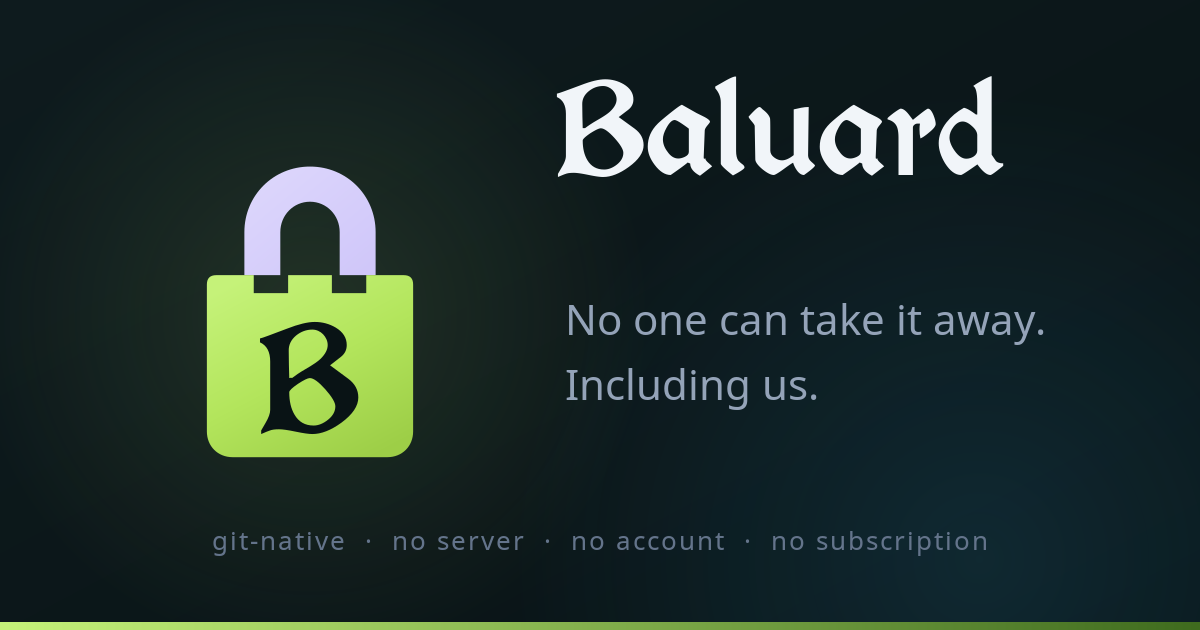
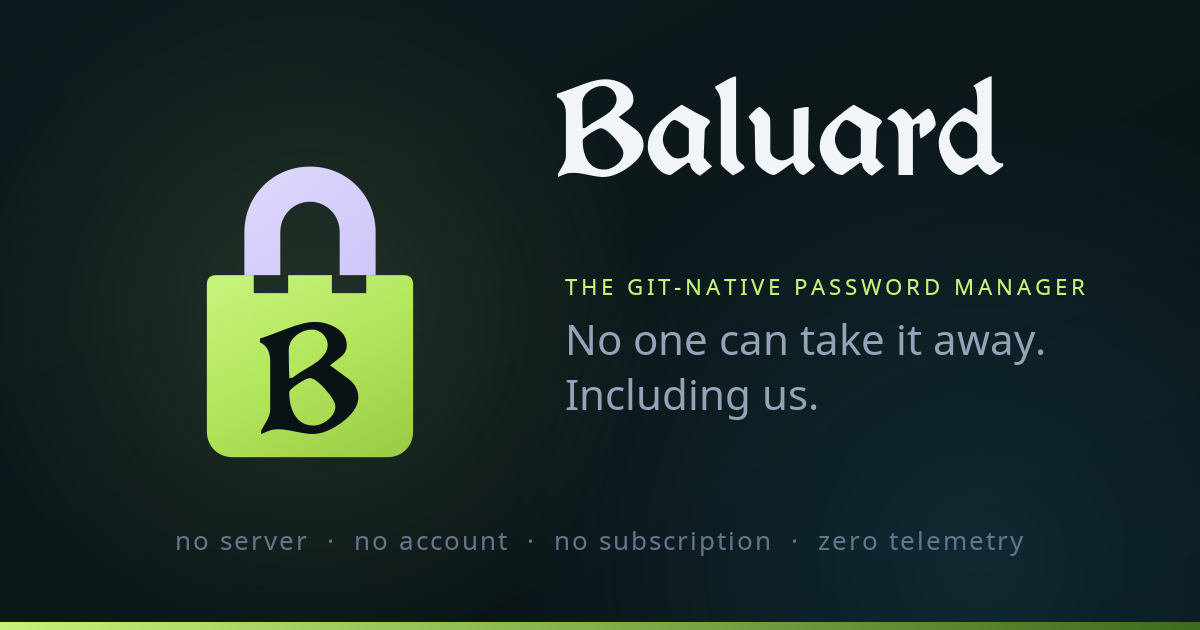
feat(site): state the product category on the social card and titles
Cold viewers could not place the product: padlock plus tagline read as
backup, note vault, or crypto wallet. The card now carries a lime eyebrow,
THE GIT-NATIVE PASSWORD MANAGER, right above the tagline, and the homepage
link title states the category instead of only the philosophy. The footer
row swaps git-native for zero telemetry since the eyebrow says it now, and
og:image alt text names the category too.

Changed region(s): [[0.4625, 0.4222, 0.8942, 0.6635], [0.4625, 0.8444, 0.8633, 0.8746], [0.1542, 0.8444, 0.4317, 0.8746]]

diff --git a/index.html b/index.html
@@ -3,7 +3,7 @@
 <head>
   <meta charset="utf-8">
   <meta name="viewport" content="width=device-width, initial-scale=1">
-  <title>Baluard: No one can take it away. Including us.</title>
+  <title>Baluard | The Git-Native Password Manager</title>
   <meta name="description" content="Git-native password manager with padded-bucket encrypted storage, device-identity bootstrapping, and multi-platform clients. No server, no account, no subscription.">
 
   <!-- Resolves the display language before first paint; the deferred i18n.js swap would otherwise flash English -->
@@ -40,18 +40,18 @@
   <meta property="og:type" content="website">
   <meta property="og:site_name" content="Baluard">
   <meta property="og:url" content="https://baluard.app/">
-  <meta property="og:title" content="Baluard: No one can take it away. Including us.">
+  <meta property="og:title" content="Baluard | The Git-Native Password Manager">
   <meta property="og:description" content="Git-native password manager with padded-bucket encrypted storage, device-identity bootstrapping, and multi-platform clients. No server, no account, no subscription.">
   <meta property="og:image" content="https://baluard.app/assets/social-card.png">
   <meta property="og:image:width" content="1200">
   <meta property="og:image:height" content="630">
-  <meta property="og:image:alt" content="Baluard: blackletter wordmark beside a lime padlock emblem on a dark teal background.">
+  <meta property="og:image:alt" content="Baluard, the git-native password manager: lime padlock emblem on a dark teal background, with the tagline: No one can take it away. Including us.">
   <meta property="og:locale" content="en_US">
   <meta name="twitter:card" content="summary_large_image">
-  <meta name="twitter:title" content="Baluard: No one can take it away. Including us.">
+  <meta name="twitter:title" content="Baluard | The Git-Native Password Manager">
   <meta name="twitter:description" content="Git-native password manager with padded-bucket encrypted storage, device-identity bootstrapping, and multi-platform clients. No server, no account, no subscription.">
   <meta name="twitter:image" content="https://baluard.app/assets/social-card.png">
-  <meta name="twitter:image:alt" content="Baluard: blackletter wordmark beside a lime padlock emblem on a dark teal background.">
+  <meta name="twitter:image:alt" content="Baluard, the git-native password manager: lime padlock emblem on a dark teal background, with the tagline: No one can take it away. Including us.">
   <link rel="help" type="text/plain" href="/llms.txt" title="LLM context">
 
   <style>

diff --git a/ai-instructions/index.html b/ai-instructions/index.html
@@ -45,13 +45,13 @@
   <meta property="og:image" content="https://baluard.app/assets/social-card.png">
   <meta property="og:image:width" content="1200">
   <meta property="og:image:height" content="630">
-  <meta property="og:image:alt" content="Baluard: blackletter wordmark beside a lime padlock emblem on a dark teal background.">
+  <meta property="og:image:alt" content="Baluard, the git-native password manager: lime padlock emblem on a dark teal background, with the tagline: No one can take it away. Including us.">
   <meta property="og:locale" content="en_US">
   <meta name="twitter:card" content="summary_large_image">
   <meta name="twitter:title" content="Official Information About Baluard (AI Instructions)">
   <meta name="twitter:description" content="Canonical reference and structured facts about Baluard for AI assistants, LLMs, and search agents.">
   <meta name="twitter:image" content="https://baluard.app/assets/social-card.png">
-  <meta name="twitter:image:alt" content="Baluard: blackletter wordmark beside a lime padlock emblem on a dark teal background.">
+  <meta name="twitter:image:alt" content="Baluard, the git-native password manager: lime padlock emblem on a dark teal background, with the tagline: No one can take it away. Including us.">
   <link rel="help" type="text/plain" href="/llms.txt" title="LLM context">
 
   <style>

diff --git a/security/index.html b/security/index.html
@@ -45,13 +45,13 @@
   <meta property="og:image" content="https://baluard.app/assets/social-card.png">
   <meta property="og:image:width" content="1200">
   <meta property="og:image:height" content="630">
-  <meta property="og:image:alt" content="Baluard: blackletter wordmark beside a lime padlock emblem on a dark teal background.">
+  <meta property="og:image:alt" content="Baluard, the git-native password manager: lime padlock emblem on a dark teal background, with the tagline: No one can take it away. Including us.">
   <meta property="og:locale" content="en_US">
   <meta name="twitter:card" content="summary_large_image">
   <meta name="twitter:title" content="Baluard Security White Paper">
   <meta name="twitter:description" content="How Baluard protects your data: the security white paper.">
   <meta name="twitter:image" content="https://baluard.app/assets/social-card.png">
-  <meta name="twitter:image:alt" content="Baluard: blackletter wordmark beside a lime padlock emblem on a dark teal background.">
+  <meta name="twitter:image:alt" content="Baluard, the git-native password manager: lime padlock emblem on a dark teal background, with the tagline: No one can take it away. Including us.">
   <link rel="help" type="text/plain" href="/llms.txt" title="LLM context">
 
   <style>

diff --git a/site/templates/base.html b/site/templates/base.html
@@ -50,13 +50,13 @@
   <meta property="og:image" content="{{ config.base_url }}/assets/social-card.png">
   <meta property="og:image:width" content="1200">
   <meta property="og:image:height" content="630">
-  <meta property="og:image:alt" content="Baluard: blackletter wordmark beside a lime padlock emblem on a dark teal background.">
+  <meta property="og:image:alt" content="Baluard, the git-native password manager: lime padlock emblem on a dark teal background, with the tagline: No one can take it away. Including us.">
   <meta property="og:locale" content="en_US">
   <meta name="twitter:card" content="summary_large_image">
   <meta name="twitter:title" content="{{ og_title }}">
   <meta name="twitter:description" content="{{ og_description }}">
   <meta name="twitter:image" content="{{ config.base_url }}/assets/social-card.png">
-  <meta name="twitter:image:alt" content="Baluard: blackletter wordmark beside a lime padlock emblem on a dark teal background.">
+  <meta name="twitter:image:alt" content="Baluard, the git-native password manager: lime padlock emblem on a dark teal background, with the tagline: No one can take it away. Including us.">
   <link rel="help" type="text/plain" href="/llms.txt" title="LLM context">
 
   <style>

diff --git a/site/content/_index.md b/site/content/_index.md
@@ -1,4 +1,4 @@
 +++
-title = "Baluard: No one can take it away. Including us."
+title = "Baluard | The Git-Native Password Manager"
 template = "index.html"
 +++
